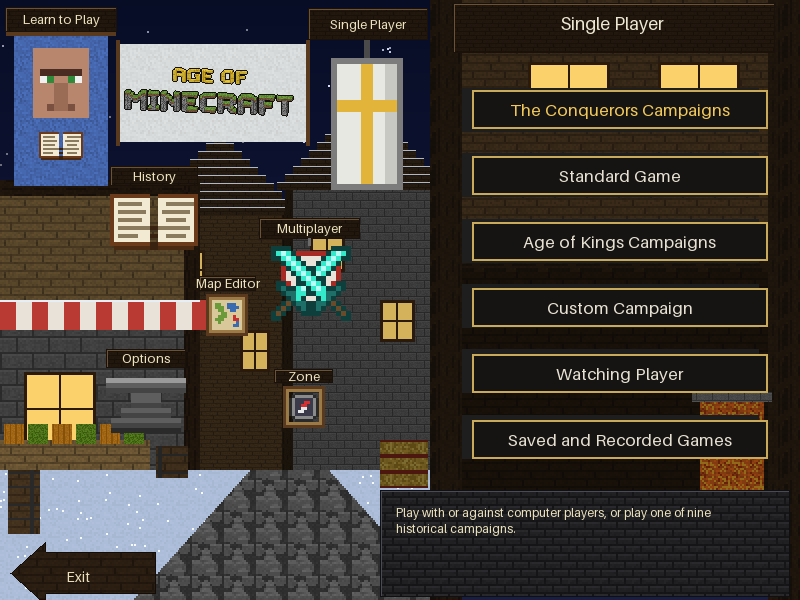
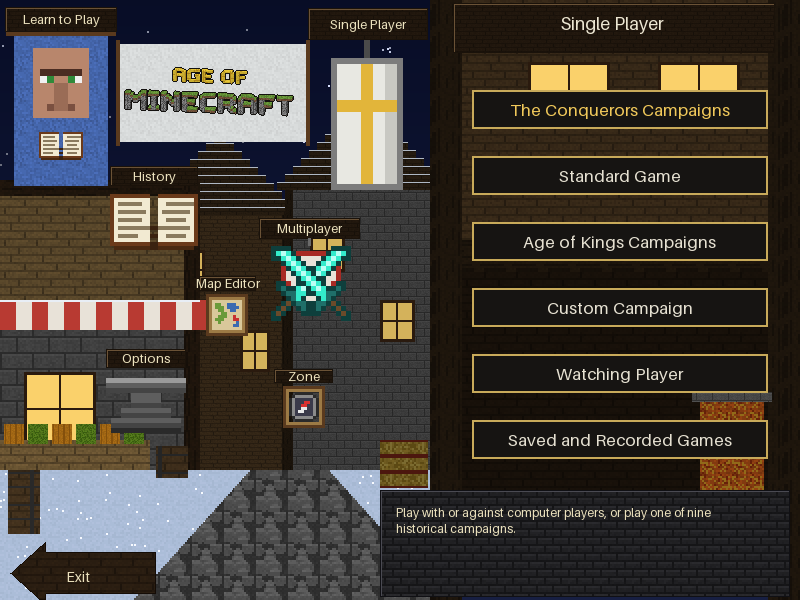
Show the Single Player plates only while its menu is open, widen the amount boxes, and give population a face
Empty plates on the blacksmith looked bad with the menu closed. The game has no picture for the open Single
Player menu, but it shows the Single Player button's highlighted picture then: the plates are now in that
picture (made bigger to the right and down, same place) and no longer in the menu picture itself.

The game starts each amount close to its icon, so the first digit stuck out of its box: the boxes now reach
back to the item drawn in the icon's place, and a little further to the right.

The population icon, a little 3D head, looked like a block of wood: it is now a villager's face, as on the
menu's Learn to Play banner, with a dark edge so it stands out on the planks.

diff --git a/tools/aom/interface.py b/tools/aom/interface.py
@@ -17,7 +17,7 @@ Each picture is repainted in the Minecraft style, every pixel keeping its place:
   game's white and black text stays readable on it;
 * where the panels meet the game view they get a black edge, like every Minecraft window;
 * the five resource icons in the top bar (wood, food, gold, stone, population) become an oak log, bread, a
-  gold ingot, cobblestone and a villager's head.
+  gold ingot, cobblestone and a villager's face.
 
 The icons sit at fixed places in the 1280x1024 pictures (openage's hardcoded/interface.py). In the smaller
 pictures they are found by matching the same civilisation's 1280x1024 icons; a picture whose icons can't be
@@ -32,7 +32,6 @@ import numpy as np
 
 from . import slp
 from . import voxel as V
-from .geometry import Part, cuboid
 from .palette import Quantiser
 from .render import fit_camera, render
 from .textures import Painter, parse
@@ -148,21 +147,31 @@ def _label(m: np.ndarray) -> tuple[np.ndarray, int]:
     return lab, len(ids)
 
 
-def _widen(boxes: np.ndarray, icons: Optional[list[tuple[int, int]]], more: int = 10, gap: int = 2) -> np.ndarray:
-    """Each box as wide as it can be: `gap` pixels from the icon before it and from the next icon or box, at most
-    `more` pixels wider on each side. Room for the game's numbers."""
+def _drawn(icons: Optional[list[tuple[int, int]]]) -> list[tuple[int, int]]:
+    """Where each resource icon's item is drawn, left and right: narrower than the original's icon box."""
+    out = []
+    for (x, _), what in zip(icons or [], RESOURCES):
+        iw = item(what).shape[1]
+        out.append((x + (ICON_W - iw) // 2, x + (ICON_W - iw) // 2 + iw))
+    return out
+
+
+def _widen(boxes: np.ndarray, icons: Optional[list[tuple[int, int]]], more: int = 12, gap: int = 1) -> np.ndarray:
+    """Each box as wide as it can be: on the left up to `gap` pixels from the item drawn before it (the game starts
+    its numbers close to the icon), on the right at most `more` pixels wider and `gap` from the next item or box.
+    Room for the game's numbers."""
     lab, n = _label(boxes)
     spans = []
     for k in range(1, n + 1):
         ys, xs = np.nonzero(lab == k)
         spans.append((xs.min(), xs.max() + 1, ys.min(), ys.max() + 1))
-    icons = icons or []
-    starts = sorted([x for x, _ in icons] + [x0 for x0, _, _, _ in spans])
-    ends = sorted([x + ICON_W for x, _ in icons] + [x1 for _, x1, _, _ in spans])
+    drawn = _drawn(icons)
+    starts = sorted([a for a, _ in drawn] + [x0 for x0, _, _, _ in spans])
+    ends = sorted([b for _, b in drawn] + [x1 for _, x1, _, _ in spans])
     out = boxes.copy()
     for x0, x1, y0, y1 in spans:
         right = min([x1 + more] + [x - gap for x in starts if x >= x1])
-        left = max([x0 - more] + [x + gap for x in ends if x <= x0])
+        left = max([x0 - 3 * more] + [x + gap for x in ends if x <= x0])
         out[y0:y1, max(0, left):max(x1, right)] = True
     return out
 
@@ -331,6 +340,8 @@ ART = {
               "..kkkkkkkkkkkk..",
               "................"],
              {"k": "#3a2410", "b": "#b8732f", "L": "#e8b060", "d": "#8a5220"}),
+    "population": (None, {"k": "#24160c", "s": "#b8866c", "b": "#4a2c22", "w": "#f0f0f0", "g": "#2f8a3a",
+                          "n": "#9a6c56", "m": "#7a5040"}),
     "gold": (["................",
               "................",
               "................",
@@ -346,23 +357,33 @@ ART = {
 }
 
 
+VILLAGER = ["ssssssss", "ssssssss", "sbbbbbbs", "swgssgws", "sssnnsss", "sssnnsss", "ssmnnmss", "ssssssss"]
+
+
+def _doubled(rows: list[str]) -> list[str]:
+    """A grid at twice the size: each pixel two by two."""
+    return ["".join(c * 2 for c in row) for row in rows for _ in range(2)]
+
+
+def _outlined(rows: list[str]) -> list[str]:
+    """A grid with a one-pixel dark ("k") edge around it, so it stands out on the planks."""
+    w = len(rows[0]) + 2
+    return ["k" * w] + ["k" + row + "k" for row in rows] + ["k" * w]
+
+
 @lru_cache(maxsize=None)
 def item(what: str) -> np.ndarray:
-    """A resource icon, RGBA 0..1: drawn items for food and gold, little blocks for the rest."""
+    """A resource icon, RGBA 0..1: drawn items for food and gold, a villager's face for population, little blocks
+    for the rest."""
     if what in ART:
         rows, legend = ART[what]
+        if rows is None:  # population: a villager's face, like the one on the menu's Learn to Play banner
+            rows = _outlined(_doubled(VILLAGER))
         tex = Painter(f"icon_{what}").grid(rows, {".": None, **legend}, noise=0.04)
         return tex[..., :4]
-    if what == "population":
-        from .units import VILLAGER_SKIN, villager_head
-        faces, extras = villager_head(Painter("icon_villager"), VILLAGER_SKIN)
-        root = Part("head", boxes=[cuboid((-4, -4, 0), (8, 8, 10), faces)] +
-                    [cuboid((b.lo[0], 4, b.lo[2] - 24), b.hi - b.lo, b.faces) for b in extras])
-        scale = 1.1
-    else:
-        s = V.Structure(what, origin=(0.5, 0.5))
-        s.set(0, 0, 0, "oak_log" if what == "wood" else "cobblestone")
-        root, scale = s.part(V.all_blocks()), 0.62
+    s = V.Structure(what, origin=(0.5, 0.5))
+    s.set(0, 0, 0, "oak_log" if what == "wood" else "cobblestone")
+    root, scale = s.part(V.all_blocks()), 0.62
     cam = fit_camera(root, V.BUILDING_HEADING, scale=scale, pad=1)
     frame = render(root, V.BUILDING_HEADING, camera=cam, shadow=False)
     rgba = frame.to_rgba().astype(np.float64) / 255

diff --git a/tools/aom/menu.py b/tools/aom/menu.py
@@ -50,7 +50,9 @@ TITLE_SIGN = (453, 3, 775, 53)
 DARKER = {"single": (0.6, 0.45)}
 DESCRIPTION = (380, 490, 790, 597)
 # the Single Player menu's six buttons (measured on photos of the game): the game draws only their edges and names,
-# so the picture gets a solid plate behind each (as wide as the button, a little taller), and nothing shows through
+# so they get a solid plate behind each (as wide as the button, a little taller), and nothing shows through. The
+# plates are not in the menu picture (empty, they looked bad): Single Player's highlighted pictures, which the game
+# shows while its menu is open, are made bigger to hold them (`plates`)
 SUBMENU = [(462, y, 759, y + 39) for y in (90, 155, 221, 286, 351, 417)]
 PLATE = "#1e1e1e"
 BORDER = ("#0a0a0a", "#101010", "#161616")  # the game's border around those buttons: a little darker, a shadow
@@ -307,6 +309,14 @@ def _sign(img, masks, name, box) -> None:
     _mark(masks, name, box)
 
 
+def plates() -> np.ndarray:
+    """Where the plates behind the Single Player menu's buttons are, on the 800x600 picture."""
+    m = np.zeros((H, W), bool)
+    for x0, y0, x1, y1 in SUBMENU:
+        m[y0 - 2:y1 + 3, x0:x1] = True
+    return m
+
+
 def scene() -> tuple[np.ndarray, dict[str, np.ndarray]]:
     """The 800x600 menu picture (RGB 0..1) and each button object's mask."""
     img = np.zeros((H, W, 3))
@@ -357,8 +367,6 @@ def scene() -> tuple[np.ndarray, dict[str, np.ndarray]]:
     _tile(img, (692, 392, 772, 402), _tex("stone_bricks"), px=1, dark=0.5)
     for x in range(482, 690, 44):  # a rack of diamond swords on the wall
         _blit(img, masks, None, sword(), x, 296, 2)
-    for x0, y0, x1, y1 in SUBMENU:  # solid behind the Single Player menu's buttons
-        _rect(img, (x0, y0 - 2, x1, y1 + 3), PLATE)
     _sign(img, masks, "title", TITLE_SIGN)
 
     # the ground: snow, and a cobblestone path
@@ -504,7 +512,23 @@ def pictures(original: list[slp.SlpFrame], palette: np.ndarray, quant: Quantiser
             px = quant.indices(np.clip(picture * 255 + 0.5, 0, 255).astype(np.int64).reshape(-1, 3)).reshape(h, w)
             px = px.astype(np.int16)
             px[(~shape) if cut else (f.pixels < 0)] = slp.TRANSPARENT
+            if name == "single" and not cut and k in frames[1:3]:  # shown while its menu is open: with the plates
+                px = _with_plates(px, x, y, quant)
             out[k] = slp.SlpFrame(px, f.hotspot)
+    return out
+
+
+def _with_plates(px: np.ndarray, x: int, y: int, quant: Quantiser) -> np.ndarray:
+    """A picture drawn at (x, y), made bigger to the right and down (its top left, so its place, is the same) to
+    hold the plates behind the Single Player menu's buttons; clear everywhere else."""
+    m = plates()
+    ys, xs = np.nonzero(m)
+    h, w = max(px.shape[0], ys.max() + 1 - y), max(px.shape[1], xs.max() + 1 - x)
+    out = np.full((h, w), slp.TRANSPARENT, np.int16)
+    out[:px.shape[0], :px.shape[1]] = px
+    colour = quant.indices(np.clip(parse(PLATE)[None, :3] * 255 + 0.5, 0, 255).astype(np.int64))[0]
+    region = m[y:y + h, x:x + w]
+    out[:region.shape[0], :region.shape[1]][region] = colour
     return out
 
 

diff --git a/tools/tests/test_export.py b/tools/tests/test_export.py
@@ -617,13 +617,24 @@ def test_full_build(tmp: Path):
     assert "INTERFACE PANELS" in report and "Minecraft style" in report and "were not found" in report
     menu_before, menu_after = slp.decode(ui_before.get(50189)), slp.decode(ui.get(50189))  # the Minecraft menu
     assert len(menu_after) == 53 and not np.array_equal(menu_after[0].pixels, menu_before[0].pixels)
-    assert all(a.pixels.shape == b.pixels.shape and a.hotspot == b.hotspot for a, b in zip(menu_after, menu_before))
+    assert all(a.hotspot == b.hotspot for a, b in zip(menu_after, menu_before))
+    assert all(a.pixels.shape == b.pixels.shape for k, (a, b) in enumerate(zip(menu_after, menu_before))
+               if k not in (11, 12))
+    for k in (11, 12):  # Single Player highlighted, shown while its menu is open: bigger, with the buttons' plates
+        (x0, y0, _, _), (bx, by) = menu.SUBMENU[0], menu.BUTTONS["single"][2]
+        big = menu_after[k].pixels
+        assert big.shape[0] > menu_before[k].pixels.shape[0] and big.shape[1] > menu_before[k].pixels.shape[1]
+        assert big[y0 + 10 - by, x0 + 10 - bx] >= 0 and big[y0 - 20 - by, x0 + 10 - bx] == slp.TRANSPARENT
+    plate = menu_after[11].pixels[menu.SUBMENU[0][1] + 10 - 12, menu.SUBMENU[0][0] + 10 - 309]
+    assert not (menu_after[0].pixels[80:470, 470:750] == plate).mean() > 0.5  # not in the menu picture itself
     shades = menu.border(parse_jasc(fake_palette()))  # the buttons' border: a little darker than the plates
     pal = parse_jasc(fake_palette())
     assert len(shades) == 6 and all(pal[i].sum() < 3 * 30 for i in shades)
     assert ui.get(50089, "bina") == (b"background1_files      xmain none 50189 -1\r\npalette_file           xmain 50589\r\n"
                                      b"bevel_colors           " + " ".join(map(str, shades)).encode() + b"\r\n")
-    assert (menu_after[10].pixels < 0).mean() > 0.1 and (menu_after[11].pixels >= 0).all()
+    assert (menu_after[10].pixels < 0).mean() > 0.1 and (menu_after[13].pixels >= 0).all()
+    h, w = menu_before[11].pixels.shape
+    assert (menu_after[11].pixels[:h, :w] >= 0).all()  # the button itself: whole
     assert not (game / "Data" / ("graphics.drs" + build_mod.BACKUP)).exists()
 
 

diff --git a/docs/DESIGN.md b/docs/DESIGN.md
@@ -156,10 +156,10 @@ widescreen panels from the same pictures. The build repaints each one, every pix
 | AoE2 | Minecraft |
 |---|---|
 | Parchment (where the game writes the unit's details) | the grey of Minecraft's inventory, with a black edge, a white bevel at the top left and a dark one at the bottom right |
-| The resource bar's boxes (the game writes the amounts in white) | flat and nearly black, no shading, so the white numbers stand out |
+| The resource bar's boxes (the game writes the amounts in white) | flat and nearly black, no shading, so the white numbers stand out; wide enough that the numbers stay inside, from right after the icon |
 | Dark areas (behind the minimap) | an inventory slot, sunk in |
 | Carved frames | planks, as dark or light as the original frame, so the game's text stays readable |
-| Resource icons: wood, food, gold, stone, population | an oak log, bread, a gold ingot, cobblestone, a villager's head |
+| Resource icons: wood, food, gold, stone, population | an oak log, bread, a gold ingot, cobblestone, a villager's face |
 | Where a panel meets the game view | a black edge, like every Minecraft window |
 
 The icons sit at fixed places in the 1280x1024 pictures. In the 800x600 and 1024x768 pictures they are found
@@ -177,7 +177,10 @@ writes the button names and the Single Player menu over the picture. Age of
 Minecraft's menu is a snowy block village at night with a blacksmith on the
 right, and each button a Minecraft thing in the original's exact place. The
 game draws only the edges and names of the Single Player menu's buttons, so the
-picture has a solid dark plate behind each of them: nothing shows through. Their
+menu has a solid dark plate behind each of them: nothing shows through. The
+plates are only there while the Single Player menu is open (they are part of
+the Single Player button's highlighted picture, which the game shows then), so
+the closed menu shows the blacksmith as it is. Their
 light border is drawn in shades a little darker than the plates instead, a soft
 shadow around each button. When
 Single Player is chosen, its shield and sign turn darker instead of glowing

diff --git a/CLAUDE.md b/CLAUDE.md
@@ -64,7 +64,9 @@ putting `tools/` on `sys.path`.
    - The main menu (`interfac.drs` 50189) is redrawn by `menu.py`: a new 800x600 picture, and each button's
      pictures cut from it at the original places (`menu.BUTTONS`), with the original's glow colour. Only a menu
      with exactly the known picture sizes (`menu.known`) is replaced. The Single Player menu's buttons get solid plates in the picture
-     (`menu.SUBMENU`, measured on photos), and `menu_border` sets the menu screen file's `bevel_colors` to shades a
+     (`menu.SUBMENU`, measured on photos) — not in the menu picture, but
+     in Single Player's highlighted pictures (11, 12; made bigger to the right and down, same top left and hotspot),
+     which the game shows while that menu is open — and `menu_border` sets the menu screen file's `bevel_colors` to shades a
      little darker than the plates (`menu.BORDER`), instead of the game's light border; `DARKER` buttons darken instead of glowing.
    - The other screens (`screens.RESTYLED`: setup screens, dialogues, history, achievements, loading screen 50163) are
      found through the screen files (`screens.read`, `Game.screens`) and redrawn by `screens.hall`: parchment

diff --git a/docs/INSTALL.md b/docs/INSTALL.md
@@ -115,7 +115,7 @@ each one backed up first, and **`restore_original.bat`** puts them back.
   parchment is the grey of Minecraft's inventory, the dark area behind the
   minimap is an inventory slot, and the carved frames are planks. The
   resource icons are an oak log (wood), bread (food), a gold ingot,
-  cobblestone (stone) and a villager's head (population). If a panel's icons
+  cobblestone (stone) and a villager's face (population). If a panel's icons
   can't be found, that panel keeps its original look, and the report says so.
 * The map is replaced too: forests, chopped trees, gold and stone mines,
   berry bushes, rocks, plants, animals, fish and decorations.
